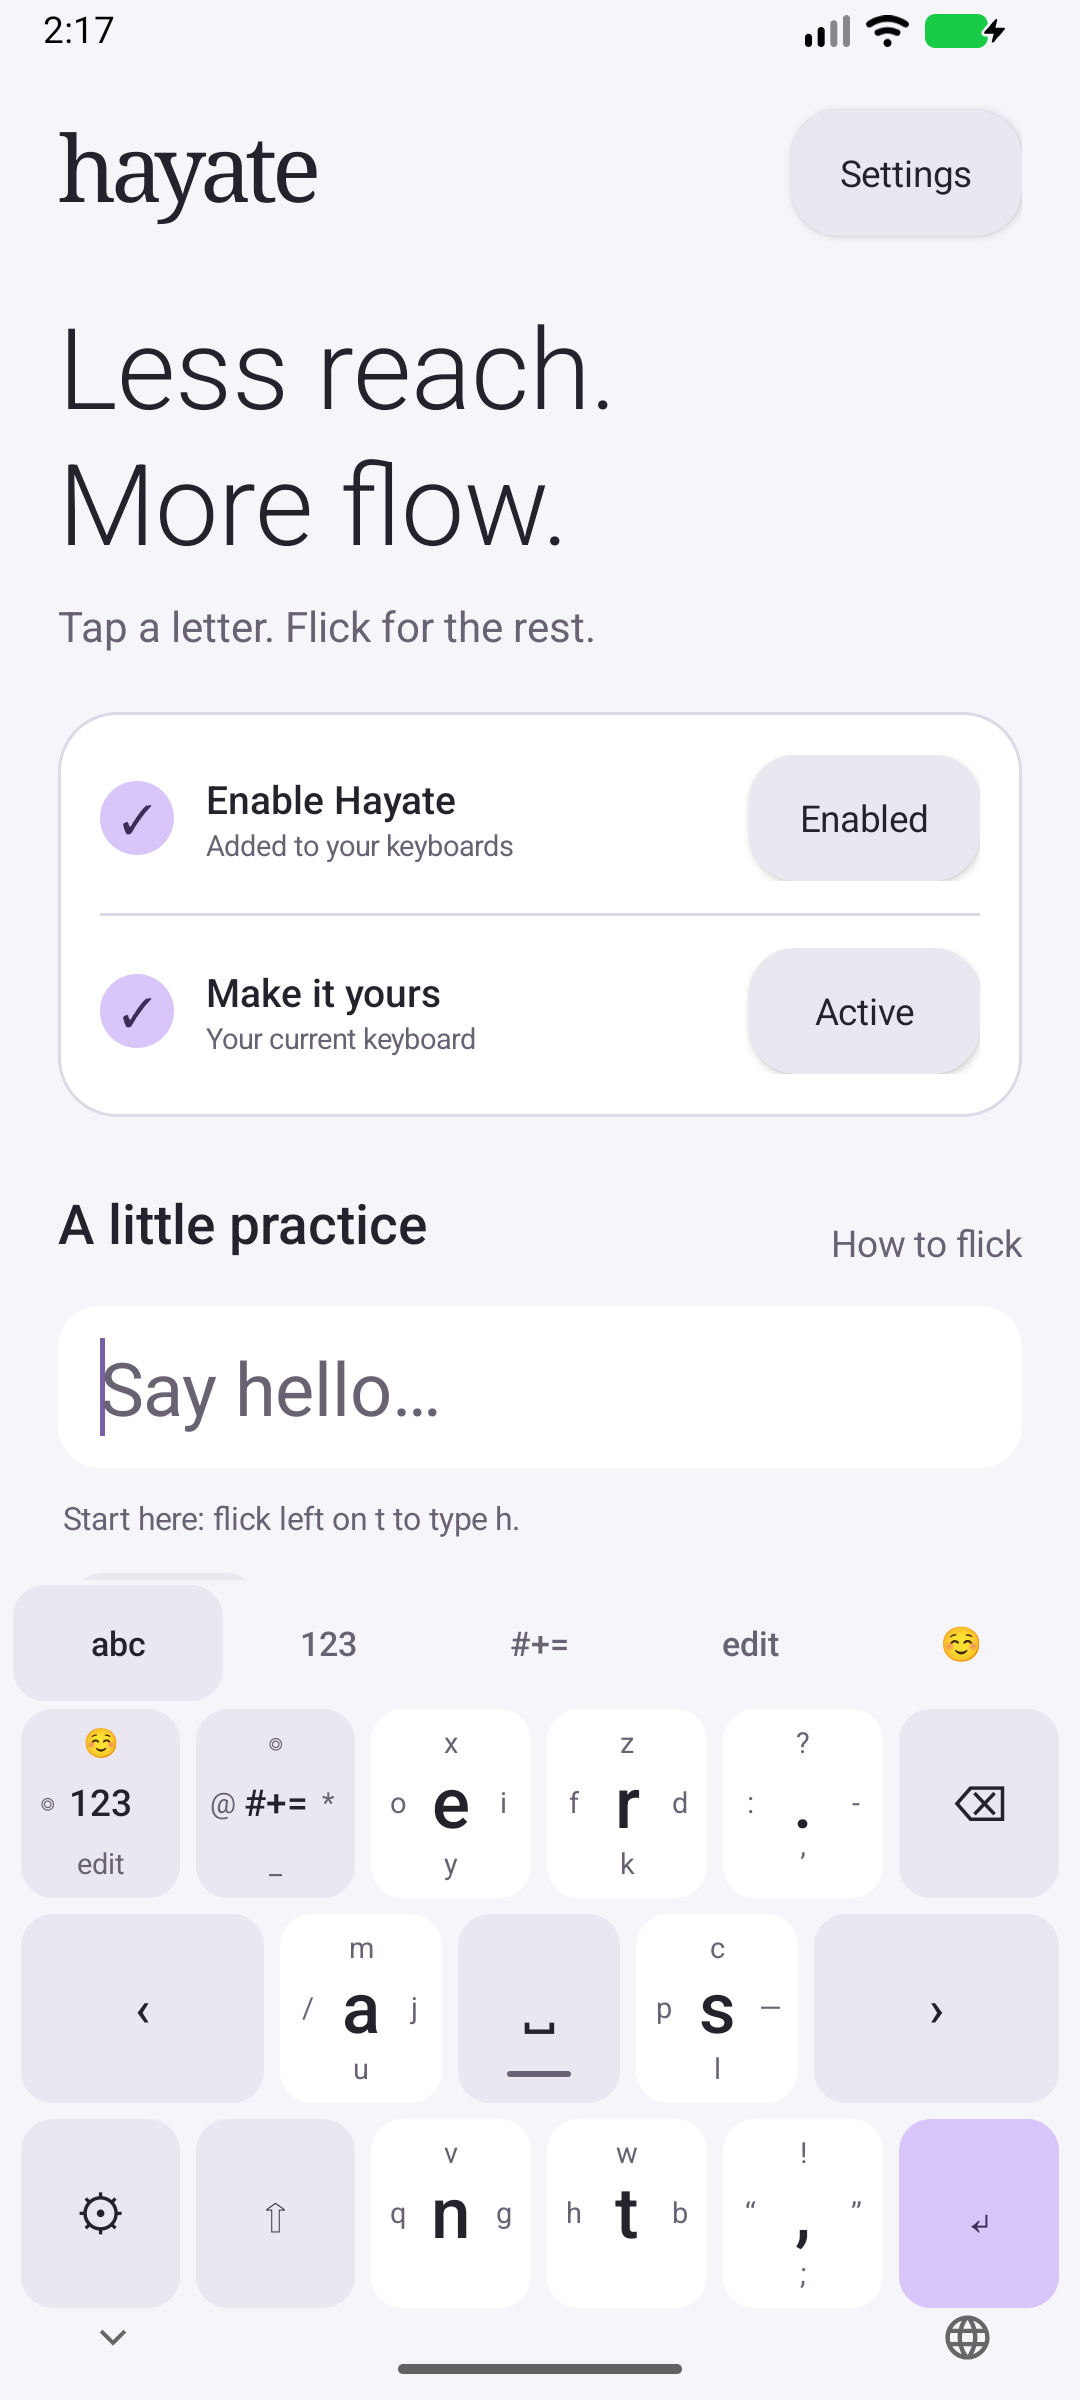
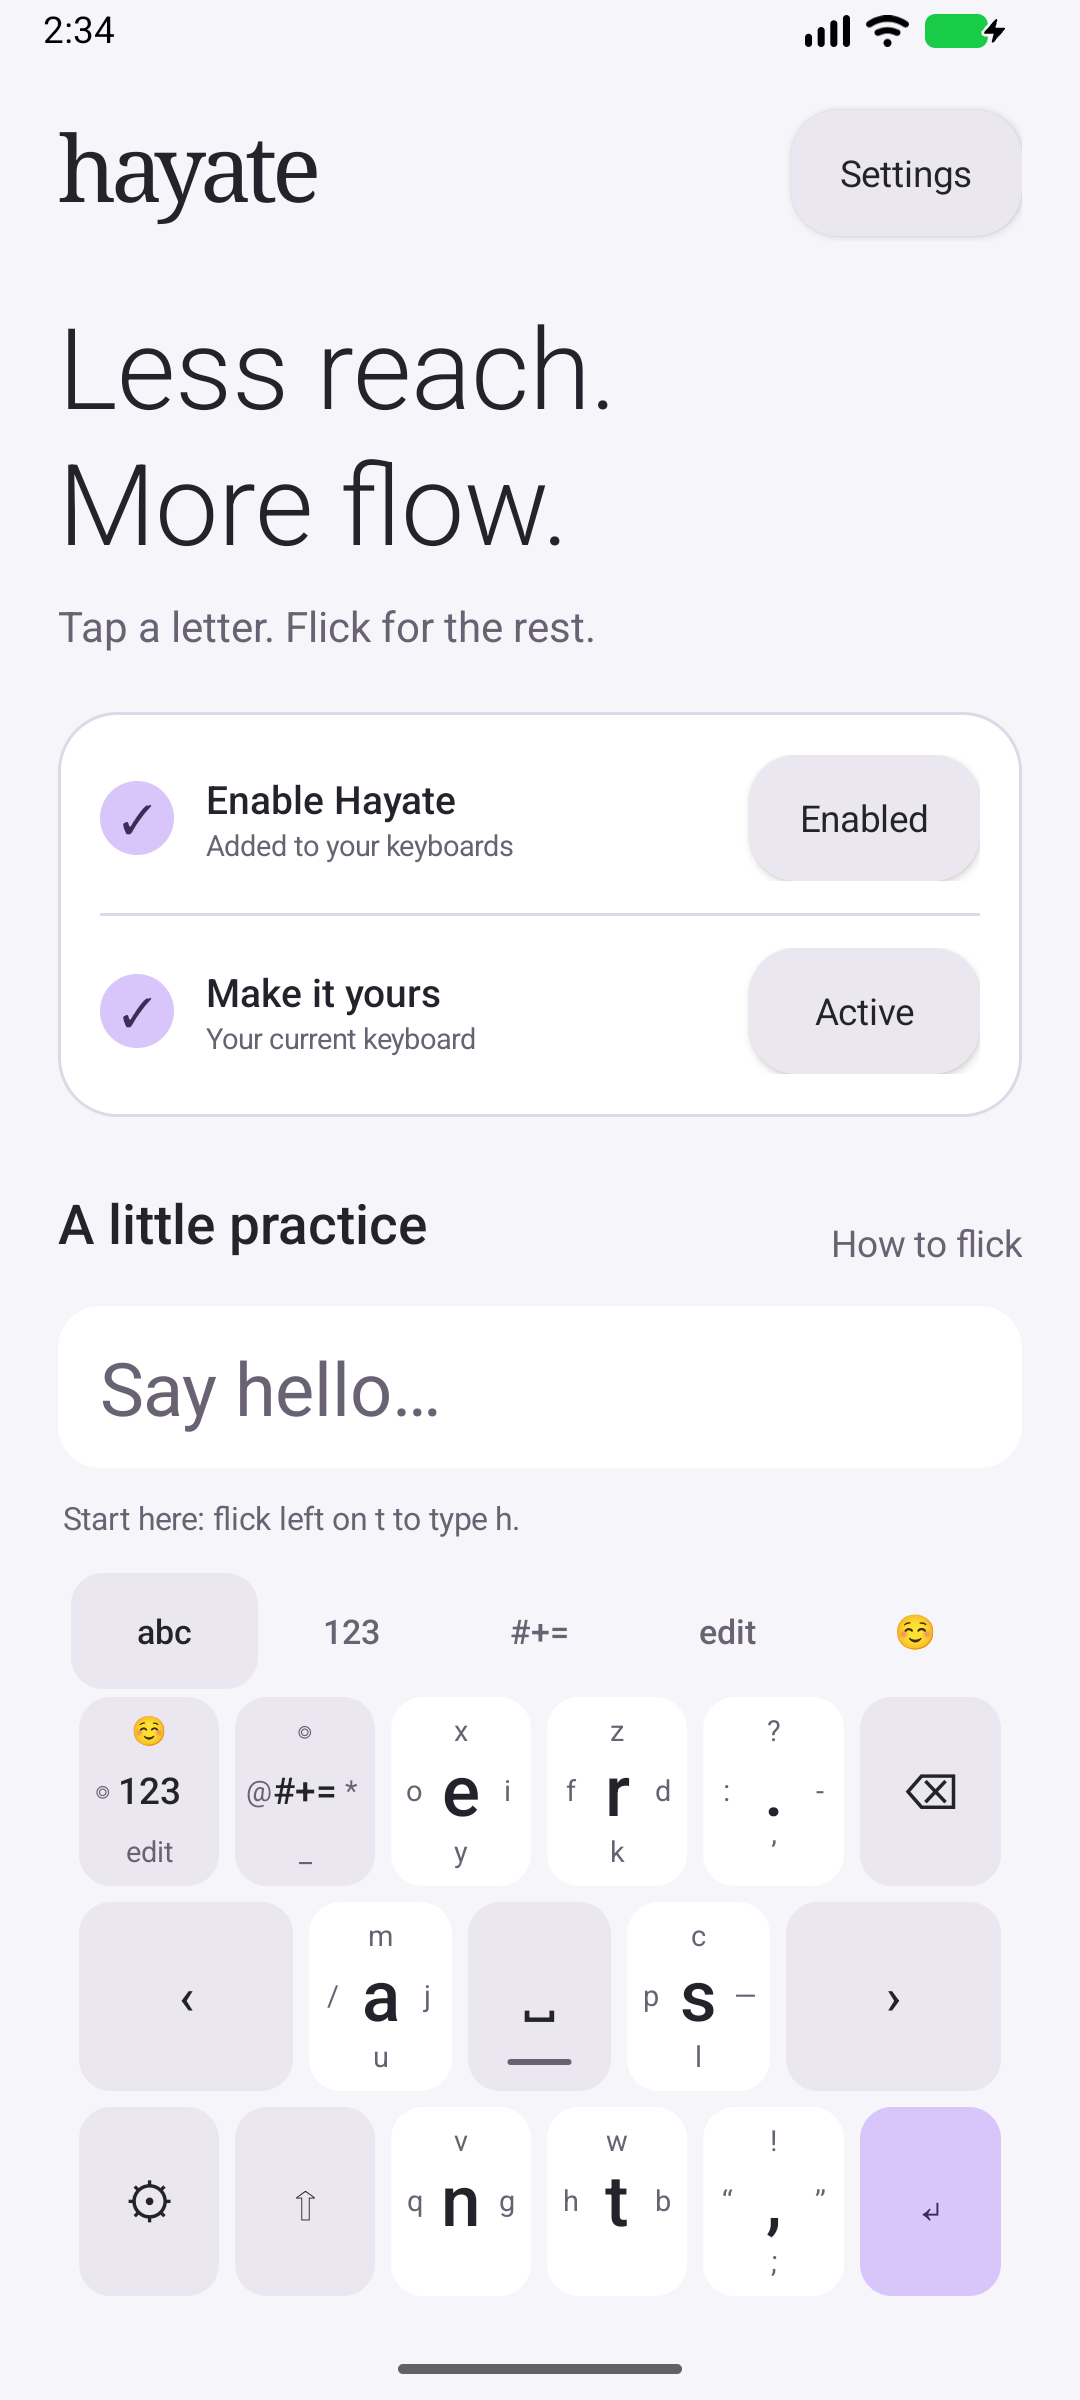
fix: keep practice independent of the system keyboard

diff --git a/app/src/main/java/dev/hayate/keyboard/MainActivity.java b/app/src/main/java/dev/hayate/keyboard/MainActivity.java
@@ -17,6 +17,7 @@ import android.view.ContextThemeWrapper;
 import android.view.View;
 import android.view.WindowInsets;
 import android.view.WindowInsetsController;
+import android.view.WindowManager;
 import android.view.inputmethod.EditorInfo;
 import android.view.inputmethod.InputConnection;
 import android.view.inputmethod.InputMethodInfo;
@@ -42,6 +43,8 @@ public final class MainActivity extends Activity {
 
     @Override public void onCreate(Bundle savedInstanceState) {
         super.onCreate(savedInstanceState);
+        // Practice uses the embedded keyboard and a local InputConnection only.
+        getWindow().addFlags(WindowManager.LayoutParams.FLAG_ALT_FOCUSABLE_IM);
         preferences = new Preferences(this);
     }
     @Override protected void onResume() { super.onResume(); render(); }
@@ -235,7 +238,7 @@ public final class MainActivity extends Activity {
         Switch haptics = new Switch(this); haptics.setText("Gentle haptics"); haptics.setTextSize(16); haptics.setTextColor(palette.ink);
         haptics.setChecked(preferences.haptics()); haptics.setOnCheckedChangeListener((view, checked) -> preferences.haptics(checked));
         panel.addView(haptics, new LinearLayout.LayoutParams(-1, dp(56)));
-        gap(panel, 8); panel.addView(text("Hayate 0.1.0\nNo network access. No typing history.\nEnglish directional flick keyboard.", 12, palette.muted));
+        gap(panel, 8); panel.addView(text("Hayate 0.1.1\nNo network access. No typing history.\nEnglish directional flick keyboard.", 12, palette.muted));
         AlertDialog settings = dialog().setTitle("Your Hayate").setView(panel).setPositiveButton("Done", null).create();
         settings.setOnDismissListener(ignored -> render()); settings.show();
     }

diff --git a/docs/VALIDATION.md b/docs/VALIDATION.md
@@ -1,4 +1,4 @@
-# Hayate 0.1.0 validation
+# Hayate 0.1.1 validation
 
 Verified on 24 October 2026 (Asia/Kolkata).
 
@@ -26,7 +26,7 @@ The unit tests cover all 26 letters, the supplied example flicks, direction thre
 
 Both review regressions were confirmed with a mutation run: reverting grapheme movement and disabling physical long press produced exactly two failures out of twelve. Restoring the fixes produced twelve passes. The popup was also checked with real pointer input and used to commit x.
 
-The signed release was checked outside the practice area. System navigation controls have separate space below the bottom key row, including after theme and orientation changes. The setup status refreshes when the keyboard picker closes.
+The signed release was checked outside the practice area. System navigation controls have separate space below the bottom key row, including after theme and orientation changes. The setup status refreshes when the keyboard picker closes. Patch 0.1.1 makes the practice window independent of Android’s IME, so returning from another app cannot put the system keyboard over its local keyboard.
 
 Environment: macOS arm64; JDK 21; Gradle 9.5.0; AGP 9.2.1; compile/target API 36. Android emulator: API 37 / Android 17, arm64 16 KB-page Google Play image, 1080 × 2400 portrait / 2400 × 1080 landscape at 420 dpi. Transient ADB transport and signed/debug installation conflicts were resolved before the final passing run.
 
@@ -37,9 +37,9 @@ Physical devices, Android 8–16 hardware, TalkBack end-to-end navigation, batte
 SHA-256 of the shipped APK:
 
 ```text
[2 lines of base64/hex data omitted]
 ```
 
 Screenshots: [setup](screenshots/setup.png), [light keyboard](screenshots/keyboard-light.png), [dark keyboard](screenshots/keyboard-dark.png), [landscape](screenshots/keyboard-landscape.png).
 
-Published to the private [GitHub repository](https://github.com/farhanakhtar0x66/hayate). [Release v0.1.0](https://github.com/farhanakhtar0x66/hayate/releases/tag/v0.1.0) contains the signed APK and checksum; the uploaded asset digest matches the local SHA-256 above.
+Published to the private [GitHub repository](https://github.com/farhanakhtar0x66/hayate). [Release v0.1.1](https://github.com/farhanakhtar0x66/hayate/releases/tag/v0.1.1) contains the signed APK and checksum; the uploaded asset digest matches the local SHA-256 above.

diff --git a/docs/RELEASE_NOTES.md b/docs/RELEASE_NOTES.md
@@ -1,6 +1,8 @@
-# Hayate 0.1.0
+# Hayate 0.1.1
 
-First usable Android build of Hayate, a minimal, offline directional flick keyboard inspired by HoneyKey Latin.
+Initial Android release of Hayate, a minimal, offline directional flick keyboard inspired by HoneyKey Latin.
+
+Patch 0.1.1 keeps Android’s system keyboard closed in the embedded practice area when returning from another app.
 
 - Six letter clusters with tap and cardinal flick entry.
 - Numbers, symbols, editing, and curated emoji layers.
@@ -9,7 +11,7 @@ First usable Android build of Hayate, a minimal, offline directional flick keybo
 - Light, dark and system themes; adjustable haptics, key height and flick distance.
 - No runtime dependencies, network permission, analytics or typing history.
 
-Install `hayate-0.1.0.apk`, open Hayate, enable it in Android settings, and choose it as your keyboard. Android 8.0 or newer is required.
+Install `hayate-0.1.1.apk`, open Hayate, enable it in Android settings, and choose it as your keyboard. Android 8.0 or newer is required.
 
 This prerelease is signed with a private local release key. It is an installable APK, not a Play Store publication. English flick typing is supported; QWERTY word-glide, prediction and autocorrect are not included.
 

diff --git a/README.md b/README.md
@@ -11,7 +11,7 @@ Hayate is a small, offline Android keyboard inspired by the HoneyKey Latin layou
 
 ## Install
 
-Download `hayate-0.1.0.apk` from [Releases](https://github.com/farhanakhtar0x66/hayate/releases).
+Download `hayate-0.1.1.apk` from [Releases](https://github.com/farhanakhtar0x66/hayate/releases).
 
 1. Install the APK on Android 8.0 or newer. Android may ask you to allow installation from your browser or file manager.
 2. Open **Hayate**, tap **Enable**, and enable Hayate in Android keyboard settings.
@@ -65,7 +65,7 @@ To sign an optimized release locally:
 ./scripts/sign-release.sh
 ```
 
-The script creates a private local signing key under `.signing/` on first use. **Keep a secure backup of that directory**: future APK updates must use the same key. It is excluded from Git. Output: `dist/hayate-0.1.0.apk`. CI builds debug and unsigned release artifacts; it does not receive the local signing key.
+The script creates a private local signing key under `.signing/` on first use. **Keep a secure backup of that directory**: future APK updates must use the same key. It is excluded from Git. Output: `dist/hayate-0.1.1.apk`. CI builds debug and unsigned release artifacts; it does not receive the local signing key.
 
 ## Design and scope
 

diff --git a/docs/superpowers/plans/2026-10-24-hayate.md b/docs/superpowers/plans/2026-10-24-hayate.md
@@ -47,4 +47,4 @@ Files: MainActivity.java; launcher icons; README.md; PRIVACY.md; LICENSE; .githu
 - [x] Native setup state, keyboard picker, interactive practice, short tutorial, appearance/height/sensitivity/haptic settings.
 - [x] Assemble debug/release, run unit suite and lint, install on emulator and review screenshots at phone/landscape sizes.
 - [x] Review all source against spec, fix material issues, record actual verification and limitations.
-- [x] Push private GitHub repo, publish signed v0.1.0 APK, verify remote contents.
+- [x] Push private GitHub repo, publish signed v0.1.1 APK, verify remote contents.

diff --git a/PRIVACY.md b/PRIVACY.md
@@ -1,6 +1,6 @@
 # Hayate privacy
 
-Hayate 0.1.0 runs locally. Its manifest does not request the INTERNET permission.
+Hayate 0.1.1 runs locally. Its manifest does not request the INTERNET permission.
 
 Hayate does not collect, save, transmit, learn from, or log text you type, including passwords. The practice field is kept only in the current activity’s memory and is not saved to disk. No analytics, advertising, account, telemetry, or crash-reporting SDK is included.
 
